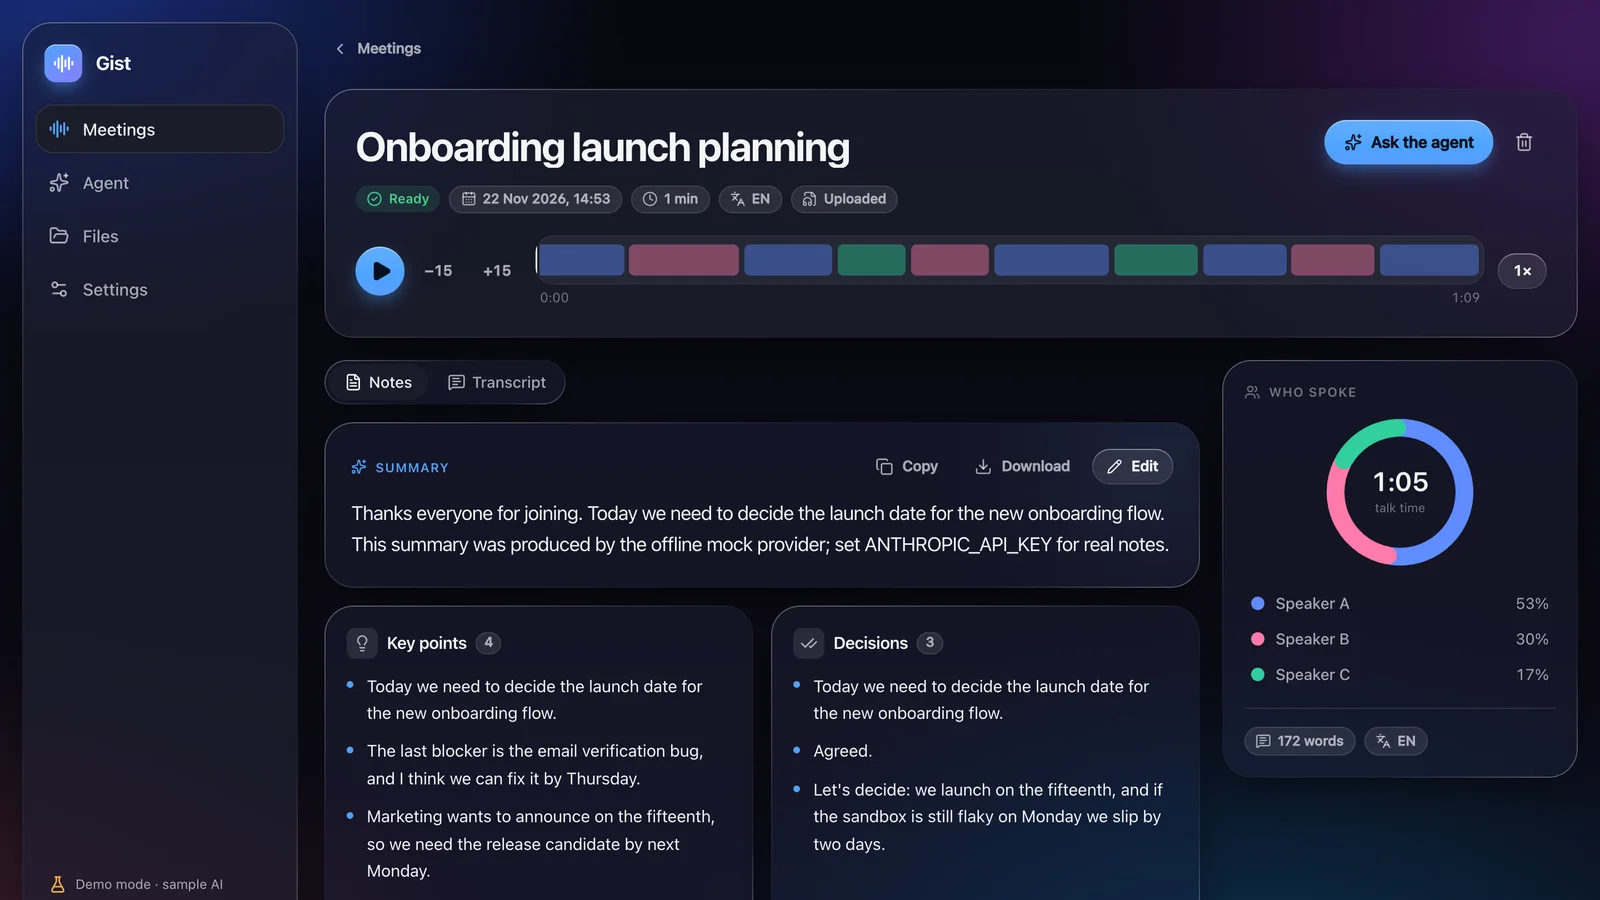
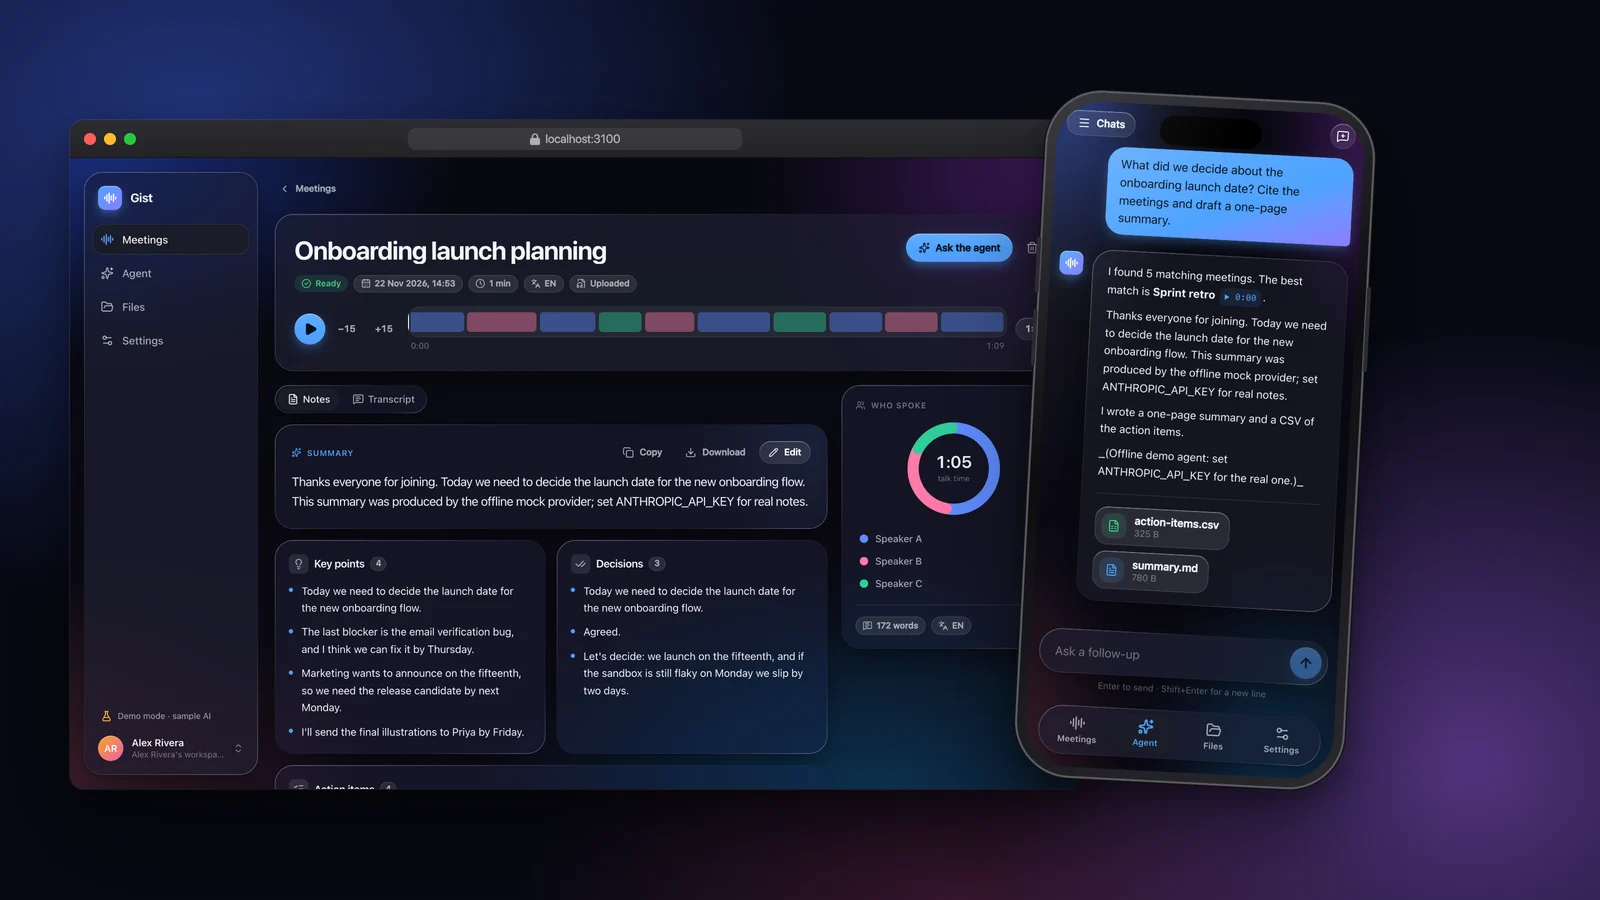
Gist: device mockups on the Work page and case study

diff --git a/src/pages/ProjectDetail.jsx b/src/pages/ProjectDetail.jsx
@@ -76,15 +76,28 @@ export default function ProjectDetail() {
       </section>
 
       <section className="wrap detail__media">
-        <Reveal>
-          <Parallax className="detail__frame">
-            {project.image ? (
-              <img src={project.image} alt={`${project.name} preview`} decoding="async" />
-            ) : (
-              <div className="tile lg">{project.name}</div>
-            )}
-          </Parallax>
-        </Reveal>
+        {project.gallery ? (
+          // Device mockups are shown whole: no parallax overscan, which would crop their edges.
+          <div className="detail__shots">
+            {[{ src: project.image, alt: `${project.name} on desktop and iPhone` }, ...project.gallery].map((g) => (
+              <Reveal key={g.src}>
+                <div className="shot">
+                  <img src={g.src} alt={g.alt} loading="lazy" decoding="async" />
+                </div>
+              </Reveal>
+            ))}
+          </div>
+        ) : (
+          <Reveal>
+            <Parallax className="detail__frame">
+              {project.image ? (
+                <img src={project.image} alt={`${project.name} preview`} decoding="async" />
+              ) : (
+                <div className="tile lg">{project.name}</div>
+              )}
+            </Parallax>
+          </Reveal>
+        )}
       </section>
 
       <section className="wrap section detail__body">

diff --git a/src/components/WorkList.jsx b/src/components/WorkList.jsx
@@ -45,7 +45,7 @@ function Row({ project, index, onEnter }) {
         →
       </span>
       {project.image && (
-        <img className="work-row__thumb" src={project.image} alt="" loading="lazy" decoding="async" />
+        <img className="work-row__thumb" src={project.thumb || project.image} alt="" loading="lazy" decoding="async" />
       )}
     </Link>
   )
@@ -91,7 +91,7 @@ export default function WorkList({ items }) {
         {items.map((p, i) =>
           p.soon ? null : (
             <div key={p.id} className={`work-preview__item ${i === active ? 'is-active' : ''}`}>
-              {p.image ? <img src={p.image} alt="" decoding="async" /> : <span className="lg">{p.name}</span>}
+              {p.thumb || p.image ? <img src={p.thumb || p.image} alt="" decoding="async" /> : <span className="lg">{p.name}</span>}
             </div>
           ),
         )}

diff --git a/src/data/projects.js b/src/data/projects.js
@@ -39,6 +39,12 @@ export const projects = [
     live: null,
     github: null,
     image: '/gist.webp',
+    thumb: '/gist-thumb.webp',
+    gallery: [
+      { src: '/gist-phones.webp', alt: 'Gist on three iPhones: files, meeting notes in light mode, and the agent chat' },
+      { src: '/gist-themes.webp', alt: 'Gist dashboard in light mode behind the agent chat in dark mode' },
+      { src: '/gist-laptop.webp', alt: 'Gist agent chat on a laptop next to the chat list on an iPhone' },
+    ],
   },
   { id: 'soon-2', soon: true, name: 'Coming soon' },
   { id: 'soon-3', soon: true, name: 'Coming soon' },

diff --git a/src/styles/pages.css b/src/styles/pages.css
@@ -81,6 +81,20 @@
 .detail__frame {
   aspect-ratio: 16 / 9;
 }
+.detail__shots {
+  display: grid;
+  gap: var(--s-5);
+}
+.shot {
+  overflow: hidden;
+  border-radius: var(--rb-radius-xl);
+  background: var(--rb-bg-secondary);
+}
+.shot img {
+  display: block;
+  width: 100%;
+  height: auto;
+}
 .detail__body {
   display: grid;
   grid-template-columns: 1.4fr 1fr;

diff --git a/projects/gist/README.md b/projects/gist/README.md
@@ -9,6 +9,17 @@ Calendar OAuth, S3-compatible storage, Chrome Extension (Manifest V3).
 **Size:** about 10,700 lines of TypeScript/TSX in `src/`, 39 API routes, 21 UI components, plus about 960 lines of
 test scripts.
 
+![Gist on desktop and iPhone](images/mockup-hero.webp)
+
+![Gist on three iPhones](images/mockup-phones.webp)
+
+![Light and dark themes](images/mockup-themes.webp)
+
+![Gist on a laptop and iPhone](images/mockup-laptop.webp)
+
+<details>
+<summary>Plain screenshots</summary>
+
 ![Meeting notes: summary, key points, decisions and who spoke](images/meeting-notes.webp)
 
 ![The agent answers with citations and generated files](images/agent-chat.webp)
@@ -17,6 +28,8 @@ test scripts.
   <img src="images/mobile-agent.webp" width="280" alt="Agent on mobile">
   <img src="images/mobile-meeting.webp" width="280" alt="Meeting notes on mobile">
 </p>
+
+</details>
 
 *Screenshots use the app's offline demo mode, so the AI text is sample content.*
 

diff --git a/README.md b/README.md
@@ -24,7 +24,7 @@ I care about clean code, great UX, and websites that work beautifully on every d
 A multi-tenant AI meeting notetaker. It records or joins calls, writes structured notes, and lets an agent answer
 questions across every meeting with citations that jump to the exact second. Next.js 16, TypeScript, Postgres.
 
-[![Gist meeting notes](projects/gist/images/meeting-notes.webp)](projects/gist/README.md)
+[![Gist on desktop and iPhone](projects/gist/images/mockup-hero.webp)](projects/gist/README.md)
 
 [Read the case study](projects/gist/README.md)
 
